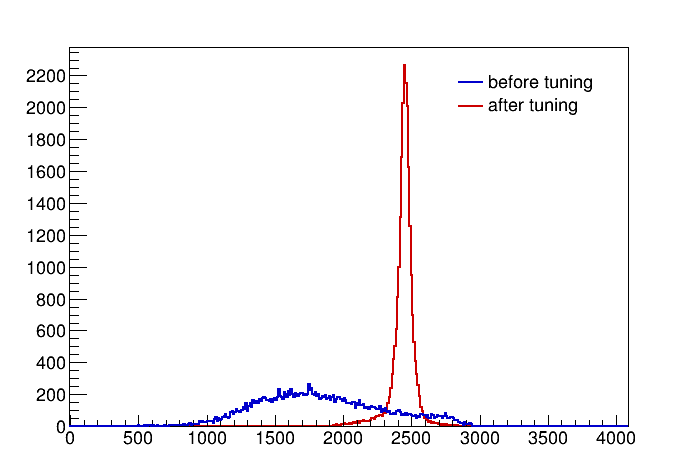
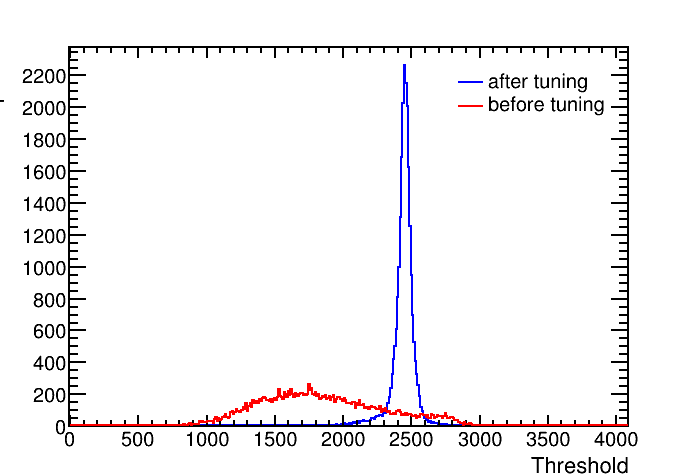
crect plots

diff --git a/dthesis_template/makeplot/ThreDistSingle.py b/dthesis_template/makeplot/ThreDistSingle.py
@@ -62,38 +62,15 @@ def setHistoStyle(h, lc, ms):
 def main():
     args = sys.argv
     filename1 = args[1]
-    filename2 = args[2]
-
-    h1 = TH1F("ThreDist", "", 409, -5, 4085)
-    h2 = TH1F("ThreDist", "", 409, -5, 4085)
-
     output1 = ROOT.TFile(args[1]+'.root', 'RECREATE')
-    output2 = ROOT.TFile(args[2]+'.root', 'RECREATE')
+z
+    Thr = TH1F("ThreDist", "", 409, -5, 4085)
+
 
     #data fill
-    FillHisto(filename1, h1)
-    output1.cd()
-    h1.Write()
-    output1.Close()
-
-    FillHisto(filename2, h2)
-    output2.cd()
-    h2.Write()
-    output2.Close()
-
-    can = ROOT.TCanvas()
-    lg = TLegend(0.65, 0.75, 0.85, 0.85)
-    SetLegendStyle(lg)
-    lg.AddEntry(h2, "before tuning", "l")
-    lg.AddEntry(h1, "after tuning", "l")
-
-
-    setHistoStyle(h1, ROOT.kRed+1, 20)
-    setHistoStyle(h2, ROOT.kBlue+1,25)
-    h1.Draw()
-    h2.Draw("same")
-    lg.Draw()
-    can.SaveAs(args[3]+'.png')
+    FillHisto(filename1, Thr)    
+    Thr.Draw("")
+    output1.Write()
         
 if __name__=='__main__':
     main()

diff --git a/dthesis_template/makeplot/MakePlot.py b/dthesis_template/makeplot/MakePlot.py
@@ -74,12 +74,12 @@ def SaveCanvasDoub(filename, objname, xname, yname, savename, add, legend1, lege
         if (color=="1"):
             HistoStyle(h1, can, xname, yname)
             h1.SetLineColor(kBlue)
-            h1.Draw("E")
+            h1.Draw("")
             HistoStyle(h2, can, xname, yname)
             h2.SetLineColor(kRed)
-            h2.Draw("same E")
+            h2.Draw("same")
 
-    lg = TLegend(0.55, 0.75, 0.85, 0.85)
+    lg = TLegend(0.65, 0.75, 0.85, 0.85)
     LegendStyle(lg)
     lg.AddEntry(h1, legend1, "l")
     lg.AddEntry(h2, legend2, "l")
